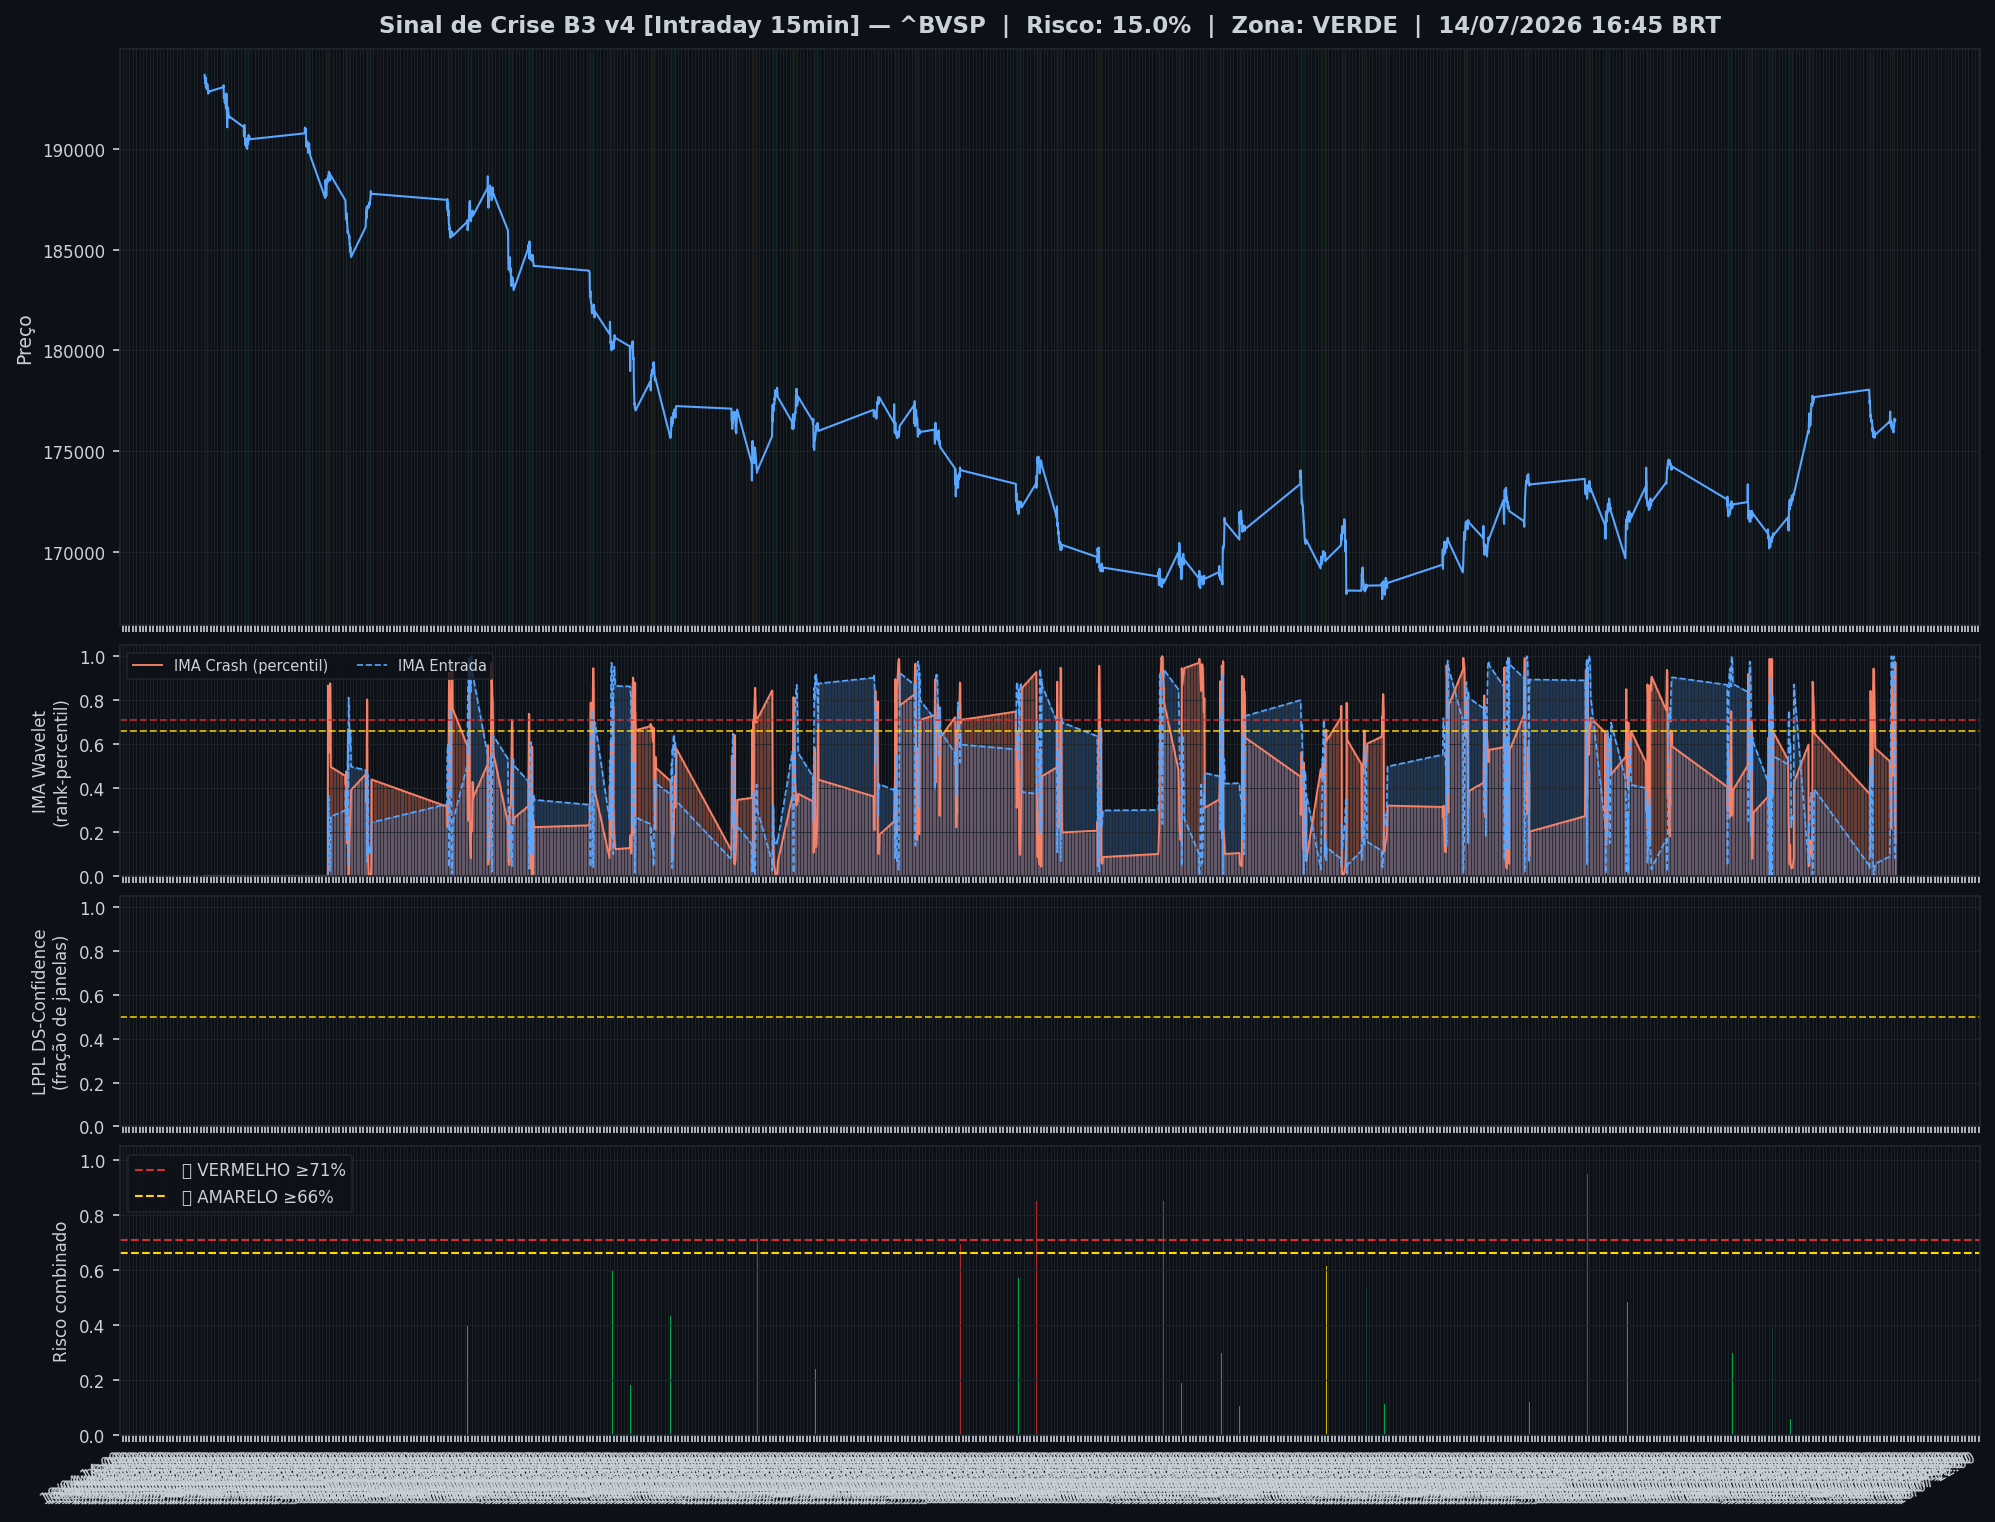
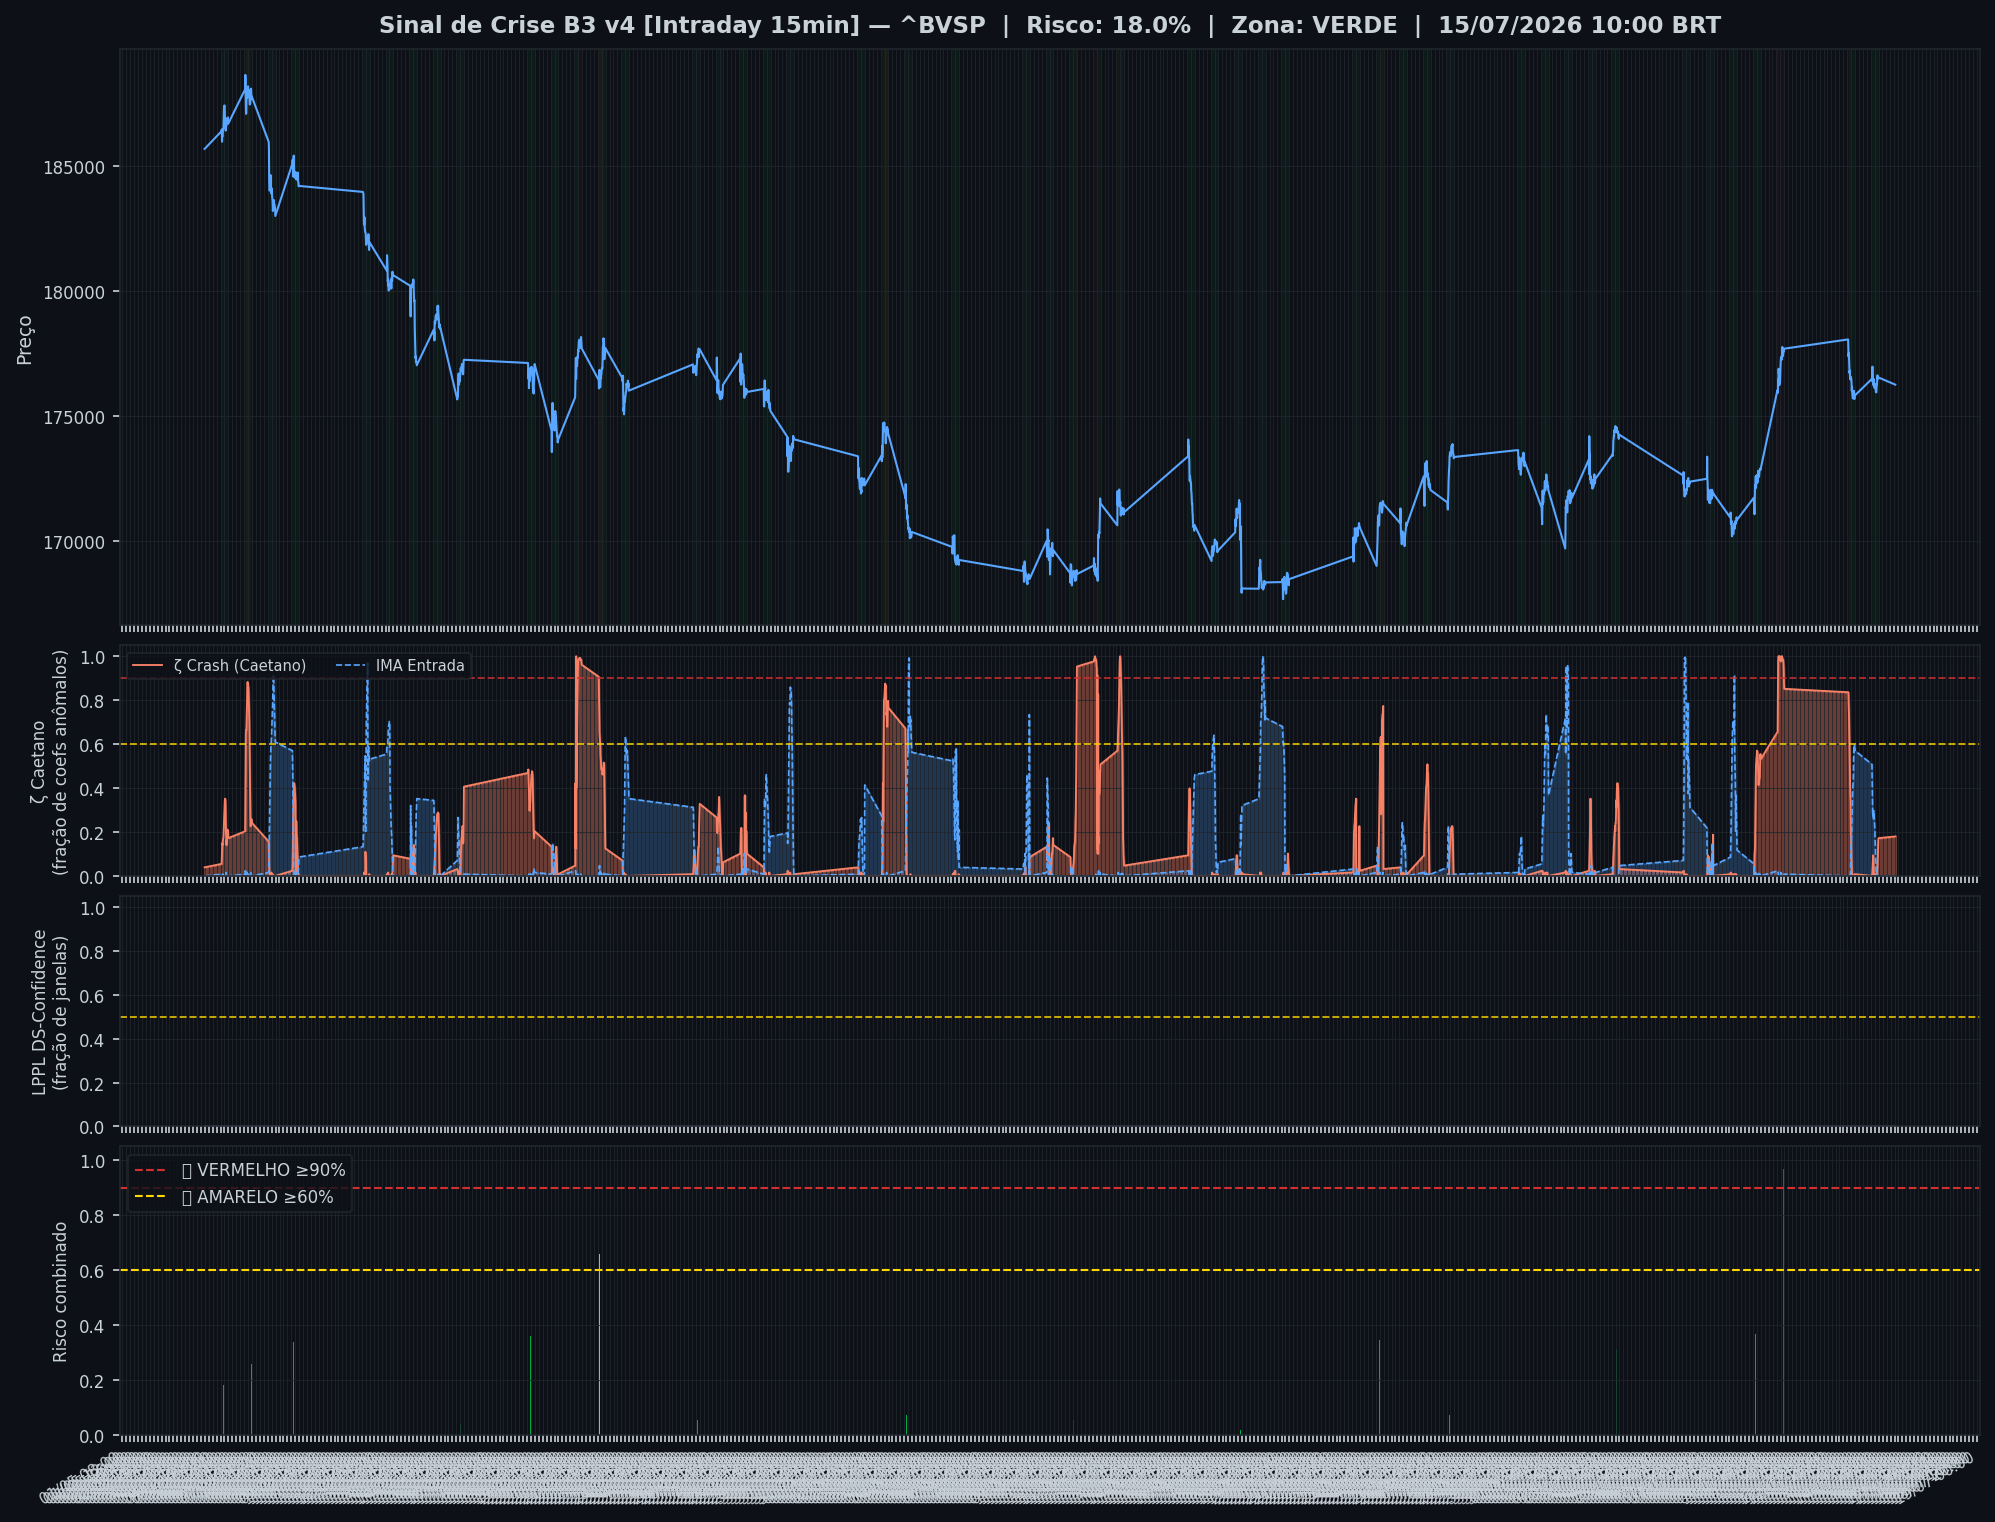
🤖 Auto: Sinal 15/07/2026 10:45

diff --git a/content/intraday/2026-07-15.md b/content/intraday/2026-07-15.md
@@ -1,0 +1,105 @@
+---
+title: "🟢 Intraday 15/07/2026 10:00 BRT — VERDE"
+date: 2026-07-15
+tags: [intraday]
+---
+
+> [!success] 🟢 **VERDE** — Risco 18% · ▲ +1 p.p. vs leitura anterior
+> `████░░░░░░░░░░░░░░░░`
+> Mercado sem sinais relevantes de estresse.
+
+
+| Indicador | Valor |
+|---|---|
+| 🔴 ζ Crash — severidade da queda em curso | **18%** |
+| 🔵 ζ Entrada — estrutura de fundo | 0% |
+| 🫧 LPPL DS-Confidence | 0% |
+| 📊 Ibovespa | 176.243 pts |
+
+![Gráfico do sinal](../graficos/sinal_intraday.png)
+
+## Últimos 30 pregões
+
+| Data | Zona | Risco | IMA Crash | Entrada | LPPL |
+|---|---|---|---|---|---|
+| 2026-07-15 10:00 | 🟢 VERDE | **18%** | 18% | 0% | 0% |
+| 2026-07-14 16:45 | 🟢 VERDE | **17%** | 17% | 0% | 0% |
+| 2026-07-14 16:30 | 🟢 VERDE | **16%** | 16% | 0% | 0% |
+| 2026-07-14 16:15 | 🟢 VERDE | **13%** | 13% | 0% | 0% |
+| 2026-07-14 16:00 | 🟢 VERDE | **9%** | 9% | 0% | 0% |
+| 2026-07-14 15:45 | 🟢 VERDE | **7%** | 7% | 0% | 0% |
+| 2026-07-14 15:30 | 🟢 VERDE | **5%** | 5% | 1% | 0% |
+| 2026-07-14 15:15 | 🟢 VERDE | **2%** | 2% | 1% | 0% |
+| 2026-07-14 15:00 | 🟢 VERDE | **1%** | 1% | 0% | 0% |
+| 2026-07-14 14:45 | 🟢 VERDE | **0%** | 0% | 0% | 0% |
+| 2026-07-14 14:30 | 🟢 VERDE | **1%** | 1% | 1% | 0% |
+| 2026-07-14 14:15 | 🟢 VERDE | **1%** | 1% | 2% | 0% |
+| 2026-07-14 14:00 | 🟢 VERDE | **0%** | 0% | 5% | 0% |
+| 2026-07-14 13:45 | 🟢 VERDE | **0%** | 0% | 8% | 0% |
+| 2026-07-14 13:30 | 🟢 VERDE | **0%** | 0% | 12% | 0% |
+| 2026-07-14 13:15 | 🟢 VERDE | **0%** | 0% | 16% | 0% |
+| 2026-07-14 13:00 | 🟢 VERDE | **1%** | 1% | 21% | 0% |
+| 2026-07-14 12:45 | 🟢 VERDE | **1%** | 1% | 23% | 0% |
+| 2026-07-14 12:30 | 🟢 VERDE | **1%** | 1% | 26% | 0% |
+| 2026-07-14 12:15 | 🟢 VERDE | **0%** | 0% | 27% | 0% |
+| 2026-07-14 12:00 | 🟢 VERDE | **1%** | 1% | 30% | 0% |
+| 2026-07-14 11:45 | 🟢 VERDE | **4%** | 4% | 29% | 0% |
+| 2026-07-14 11:30 | 🟢 VERDE | **7%** | 7% | 26% | 0% |
+| 2026-07-14 11:15 | 🟢 VERDE | **9%** | 9% | 28% | 0% |
+| 2026-07-14 11:00 | 🟢 VERDE | **8%** | 8% | 27% | 0% |
+| 2026-07-14 10:45 | 🟢 VERDE | **5%** | 5% | 28% | 0% |
+| 2026-07-14 10:30 | 🟢 VERDE | **2%** | 2% | 36% | 0% |
+| 2026-07-14 10:15 | 🟢 VERDE | **1%** | 1% | 42% | 0% |
+| 2026-07-14 10:00 | 🟢 VERDE | **0%** | 0% | 51% | 0% |
+| 2026-07-13 16:45 | 🟢 VERDE | **1%** | 1% | 57% | 0% |
+
+## Monitor Multi-Ativo
+
+**0% dos ativos em tensão** (0🔴 0🟡) — quanto mais ativos disparam juntos, mais confiável o sinal.
+
+| Zona | Ativo | Setor | IMA Crash | IMA Entrada |
+|---|---|---|---|---|
+| 🟢 | **VALE** | Mineração | 4.7% | 10.2% |
+| 🟢 | **ITAUUNIBANCO** | Financeiro | 4.7% | 10.2% |
+| 🟢 | **PETROBRAS** | Petróleo | 4.7% | 10.2% |
+| 🟢 | **AXIA ENERGIA** | Energia | 4.7% | 10.2% |
+| 🟢 | **PETROBRAS** | Petróleo | 4.7% | 10.2% |
+| 🟢 | **BRADESCO** | Financeiro | 4.7% | 10.2% |
+| 🟢 | **SABESP** | Saneamento | 4.7% | 10.2% |
+| 🟢 | **ITAUSA** | Financeiro | 4.7% | 10.2% |
+| 🟢 | **B3** | Financeiro | 4.7% | 10.2% |
+| 🟢 | **BTGP BANCO** | Financeiro | 4.7% | 10.2% |
+| 🟢 | **AMBEV S/A** | Consumo | 4.7% | 10.2% |
+| 🟢 | **WEG** | Industrial | 4.7% | 10.2% |
+| 🟢 | **EMBRAER** | Outros | 4.7% | 10.2% |
+| 🟢 | **BRASIL** | Financeiro | 4.7% | 10.2% |
+| 🟢 | **ENEVA** | Energia | 4.7% | 10.2% |
+| 🟢 | **EQUATORIAL** | Energia | 4.7% | 10.2% |
+| 🟢 | **COPEL** | Energia | 4.7% | 10.2% |
+| 🟢 | **PRIO** | Petróleo | 4.7% | 10.2% |
+| 🟢 | **VIBRA** | Energia | 4.7% | 10.2% |
+| 🟢 | **LOCALIZA** | Aluguel | 4.7% | 10.2% |
+| 🟢 | **REDE D OR** | Saúde | 4.7% | 10.2% |
+| 🟢 | **ULTRAPAR** | Outros | 4.7% | 10.2% |
+| 🟢 | **GERDAU** | Siderurgia | 4.7% | 10.2% |
+| 🟢 | **SUZANO S.A.** | Papel/Celulose | 4.7% | 10.2% |
+| 🟢 | **TELEF BRASIL** | Outros | 4.7% | 10.2% |
+| 🟢 | **BBSEGURIDADE** | Financeiro | 4.7% | 10.2% |
+| 🟢 | **USD/BRL** | Câmbio | 1.6% | 12.5% |
+
+![Monitor multi-ativo](../graficos/multi_intraday.png)
+
+*Página atualizada em 15/07/2026 10:45 BRT (leitura da barra de 2026-07-15 10:00 BRT).*
+
+> [!info]- Como interpretar (clique para expandir)
+> - **ζ Crash**: fração dos coeficientes wavelet acima do corte (Caetano & Yoneyama 2009). Escala absoluta: ζ=0,90 = 90% dos coeficientes anômalos — historicamente, quedas com ζ≥0,90 foram mais fundas e mais longas. **Mede a severidade do movimento em curso, não prevê o início da queda.**
+> - **ζ Entrada**: coeficientes negativos além do corte — estrutura de fundo, possível região de compra.
+> - **LPPL DS-Confidence**: fração de janelas (60–504 pregões) em que o modelo de bolha de Sornette produz um ajuste válido. 30% já é relevante; acima de 50% é forte evidência de estrutura de bolha.
+> - **Zonas com histerese**: o sinal só muda de zona ao cruzar o limiar de entrada, e só volta ao cruzar o de saída — evita flip-flop diário.
+
+
+---
+*Sinal de Crise B3 v4 · IMA Wavelet ([Caetano & Yoneyama, Physica-A 2007](https://doi.org/10.1016/j.physa.2007.03.054)) + LPPL DS-Confidence (Sornette, ETH-Zurich) · [Metodologia](metodologia) · [Histórico](historico)*
+
+> [!quote]- Aviso
+> Estudo acadêmico. Não constitui recomendação de investimento.

diff --git a/content/index.md b/content/index.md
@@ -1,6 +1,6 @@
 ---
 title: Sinal de Crise B3
-date: 2026-07-14
+date: 2026-07-15
 tags: [home]
 ---
 
@@ -8,37 +8,33 @@ tags: [home]
 
 Monitoramento diário e intraday do Ibovespa — **IMA Wavelet** (Prof. Marco Antonio Leonel Caetano, ITA/INSPER) + **LPPL DS-Confidence** (Prof. Didier Sornette, ETH-Zurich).
 
-*Última atualização: 14/07/2026 19:03 BRT · ^BVSP · Diário D1 · v4*
+*Última atualização: 15/07/2026 10:45 BRT · ^BVSP · Intraday 15min · v4*
 
-> [!success] 🟢 **VERDE** — Risco 0% · ＝ +0 p.p. vs leitura anterior
-> `░░░░░░░░░░░░░░░░░░░░`
+> [!success] 🟢 **VERDE** — Risco 18% · ▲ +1 p.p. vs leitura anterior
+> `████░░░░░░░░░░░░░░░░`
 > Mercado sem sinais relevantes de estresse.
 
 
 | Indicador | Valor |
 |---|---|
-| 🔴 IMA Crash (percentil 2 anos) | **0%** |
-| 🔵 IMA Entrada (compra) | 25% |
+| 🔴 ζ Crash — severidade da queda em curso | **18%** |
+| 🔵 ζ Entrada — estrutura de fundo | 0% |
 | 🫧 LPPL DS-Confidence | 0% |
-| 📊 Ibovespa | 176.641 pts |
+| 📊 Ibovespa | 176.243 pts |
 
-**Multi-ativo:** 15% em tensão (1🔴 3🟡 de 27 ativos)
+**Multi-ativo:** 0% em tensão (0🔴 0🟡 de 27 ativos)
 
 
 > [!tip]- Calibração v4 (backtest 15y)
-> 4/7 crises históricas detectadas · 10.1 falsos alarmes/ano · antecedência média 22.8 dias · limiares 🟡 66% / 🔴 71% com histerese
+> ?/? crises históricas detectadas · ? falsos alarmes/ano · antecedência média ? dias · limiares 🟡 60% / 🔴 90% com histerese
 
 ## Últimos 7 pregões
 
 | Data | Zona | Risco | IMA | LPPL |
 |---|---|---|---|---|
-| [13 Jul 2026](diario/2026-07-13) | 🟢 VERDE | **0%** | 0% | 0% |
-| [12 Jul 2026](diario/2026-07-12) | 🟢 VERDE | **0%** | 0% | 0% |
-| [09 Jul 2026](diario/2026-07-09) | 🟢 VERDE | **1%** | 1% | 0% |
-| [08 Jul 2026](diario/2026-07-08) | 🟢 VERDE | **2%** | 3% | 0% |
-| [07 Jul 2026](diario/2026-07-07) | 🟢 VERDE | **5%** | 7% | 0% |
-| [06 Jul 2026](diario/2026-07-06) | 🟢 VERDE | **6%** | 9% | 0% |
-| [05 Jul 2026](diario/2026-07-05) | 🟢 VERDE | **8%** | 11% | 0% |
+| [15 Jul 2026](diario/2026-07-15) | 🟢 VERDE | **18%** | 18% | 0% |
+| [14 Jul 2026](diario/2026-07-14) | 🟢 VERDE | **17%** | 17% | 0% |
+| [13 Jul 2026](diario/2026-07-13) | 🟢 VERDE | **1%** | 1% | 0% |
 
 ## Navegação
 

diff --git a/content/metodologia.md b/content/metodologia.md
@@ -16,10 +16,14 @@ Energia concentrada nas escalas de alta frequência com baixa
 volatilidade é o padrão espectral que antecede mudanças abruptas —
 o "tufão" nos espectrogramas de Caetano.
 
-**Na v4**, o valor bruto (energia alta-freq ÷ volatilidade) é convertido
-em **rank-percentil móvel de 2 anos**: um IMA de 85% significa
-literalmente que o estresse espectral está acima de 85% dos últimos
-500 pregões. Isso torna o score interpretável e comparável no tempo.
+**Na v5**, o índice segue fielmente o artigo: ζ(t) = n(t)/N — a fração
+dos coeficientes wavelet (normalizados por escala) que ultrapassam o
+corte de 0,8σ na faixa recente. A escala é **absoluta**: ζ=0,90 tem o
+mesmo significado hoje e daqui a dois anos. Validação: replica o
+Kruskal-Wallis do artigo em 2003–2008 (p=0,007/0,002); em 2015–2025,
+AUC 0,58 contra 0,50 do motor anterior. ζ **classifica a severidade do
+movimento em curso** — não antecipa o início da queda (o próprio
+Caetano registra que ζ sobe com atraso).
 
 ## LPPL DS-Confidence (Sornette)
 
@@ -53,16 +57,16 @@ cruzar o de saída (10 p.p. abaixo), eliminando o flip-flop diário.
 
 ## Backtest e calibração
 
-Backtest 15y do ^BVSP (calibrado em 2026-07-04 20:53):
+Backtest 15y do ^BVSP (calibrado em —):
 
 | Métrica | 🟡 AMARELO | 🔴 VERMELHO |
 |---|---|---|
-| Limiar de entrada (histerese −10 p.p. na saída) | 66% | 71% |
-| Crises detectadas | 4/7 | 2/7 |
-| Falsos alarmes/ano | 10.1 | 0.8 |
-| Antecedência média | 22.8 dias | 25.5 dias |
+| Limiar de entrada (histerese −10 p.p. na saída) | 60% | 90% |
+| Crises detectadas | —/— | —/— |
+| Falsos alarmes/ano | — | — |
+| Antecedência média | — dias | — dias |
 
-Pesos calibrados: **70% IMA + 30% LPPL**.
+Pesos calibrados: **60% IMA + 40% LPPL**.
 
 ## Referências
 

diff --git a/content/historico.md b/content/historico.md
@@ -7,6 +7,7 @@ tags: [historico]
 
 | Data | Modo | Zona | Risco | IMA | LPPL |
 |---|---|---|---|---|---|
+| 2026-07-15 10:00 | intraday | 🟢 VERDE | 18% | 18% | 0% |
 | 2026-07-14 16:45 | intraday | 🟢 VERDE | 15% | 15% | 0% |
 | 2026-07-14 16:30 | intraday | 🔴 VERMELHO | 97% | 97% | 0% |
 | 2026-07-14 16:15 | intraday | 🟢 VERDE | 23% | 23% | 0% |
